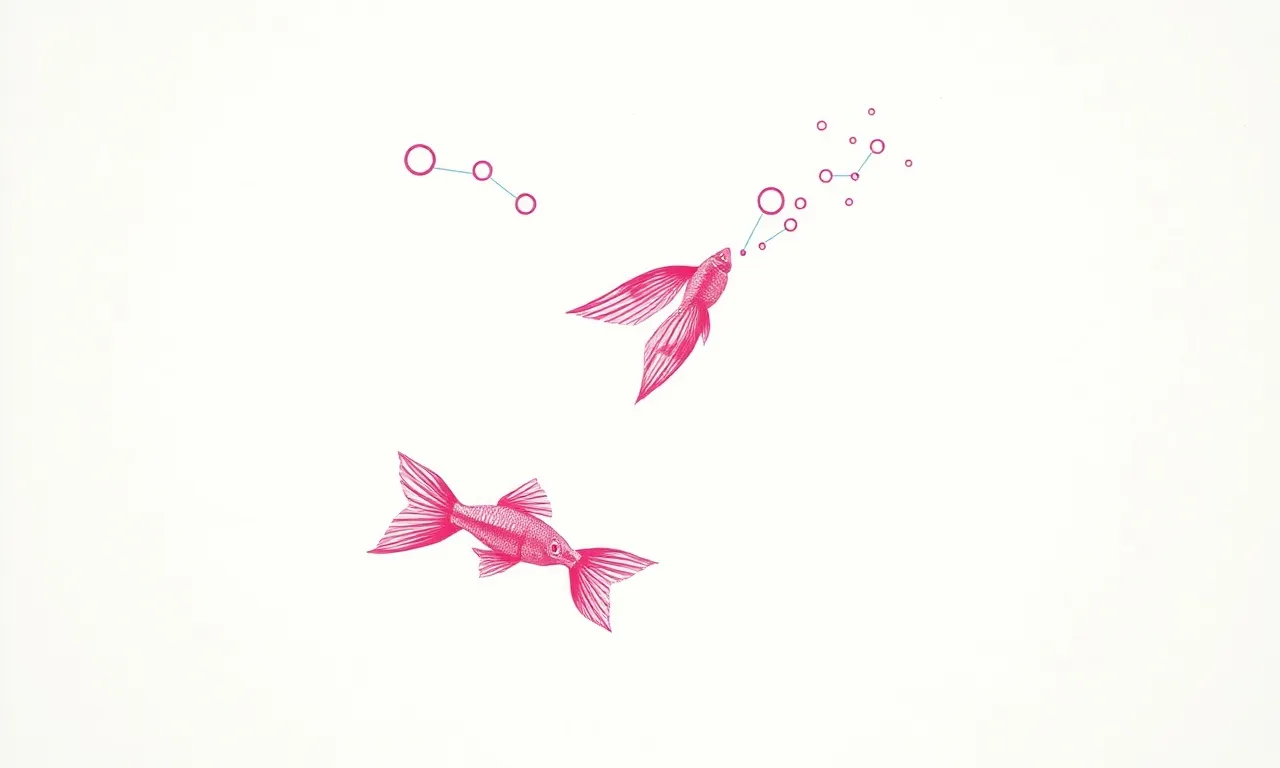
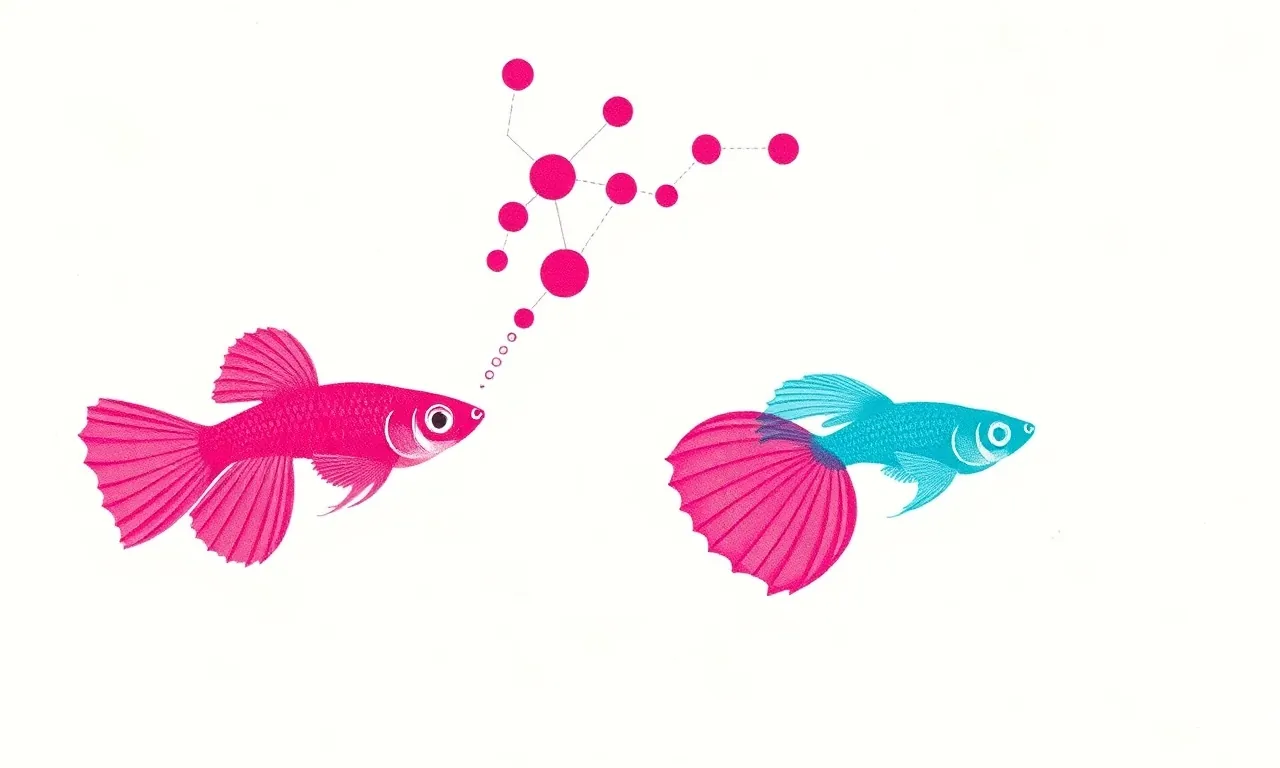
Fishbowl post: v3 results, browser demo section, image update
Claude-Session: https://claude.ai/code/session_019SF6FWRoYjsbrJaRiWnrmr

diff --git a/content/practice/i-grew-a-language-model-in-a-fishbowl/index.md b/content/practice/i-grew-a-language-model-in-a-fishbowl/index.md
@@ -200,7 +200,7 @@ Half-copies! Except "basket" was on the 1,146-noun list, and "vacuum" is the sta
 "vacuuming," which was on the list too. Neither proves it copied a truly novel word.
 Across every version, it never repeated one.
 
-{{< nyer-panel src="bubble-network.webp" caption="A few connections. That's all it has." alt="A two-color pink and teal risograph print of two small fish blowing bubbles that link together with thin lines, like a sparse constellation." >}}
+{{< nyer-panel src="bubble-network.webp" caption="A few connections. That's all it has." alt="A two-color risograph print of two guppies, one pink and one teal. The pink one blows a stream of bubbles that link together with thin lines, like a sparse constellation." >}}
 
 ## A bigger tank, the same fish
 
@@ -282,20 +282,54 @@ comes back as "Bartholomewwook." Long words can still wander off after a few pie
 
 ## Where it is now
 
-The newest fish has two habits I'm working on:
+That fish had two habits left:
 
-- **It stops at real words.** Named Marbleton, it says "I am Marble," eight times out of eight.
-  Wobbleton becomes Wobble. It copies until it reaches something that looks like a word it knows,
-  and calls that a name.
-- **It mixes up you and me.** The memory lessons are full of "What is my name?" answered with
-  "Your name is...", and "What is your name?" is one word away. So sometimes you ask the fish its
-  name and it tells you yours. Once, with total confidence: "You are you, grandparent."
+- **It stopped at real words.** Named Marbleton, it said "I am Marble," eight times out of
+  eight. Wobbleton became Wobble. It copied until it reached something that looked like a word
+  it knew, and called that a name.
+- **It mixed up you and me.** The memory lessons were full of "What is my name?" answered with
+  "Your name is...", and "What is your name?" is one word away. So sometimes you asked the fish
+  its name and it told you yours. Once, with total confidence: "You are you, grandparent."
 
-The fixes are in the oven. Some invented names now start with a real word (Bubbleington,
-Crumbleham, Cloverby), so stopping there is wrong. Haiku agents wrote 640 answers to "what's
-your name?" in each creature's voice; some conversations ask both mine and yours. A dozen
-more agents are writing 6,000 conversations, and the next run trains twice as long. Results
-when the fish is done baking, which is not a sentence I expected to write about a fish.
+The fixes were more of the same medicine. A quarter of the invented names now start with a real
+word (Bubbleington, Crumbleham, Cloverby), so stopping at the word is wrong. Haiku agents wrote
+640 answers to "what's your name?" in each creature's voice, and some conversations ask both
+questions, mine and yours. Another dozen agents wrote 6,000 more conversations, and the fish
+trained twice as long.
+
+Both habits went away. Exact copies of unseen names went from 56% to 92%. Marbleton came back
+whole eight times out of eight:
+
+> Marbleton. I am a careful crab who likes to look for better shells.
+
+None of its 48 answers to "What is your name?" and "Who are you?" started with "You are." Bartholomew, the long
+name that kept wandering off, came back exact in half the memory tests. These are small
+samples, one training run each, so I trust the big moves more than the small ones.
+
+Two new wrinkles showed up, and both are the same lesson again:
+
+- **Tuppence came out "Tuppal" half the time.** One of the syllables the agent used to build
+  invented training names is "tup," so the fish has a strong habit of finishing Tup- with a
+  syllable it knows.
+- **It forgot purple.** To keep the test fair, purple was left out of the 14 colors in the
+  memory lessons. Tell the fish you found a purple shell and it says "A shell you found was
+  pink." Fourteen colors is the 31 nouns all over again: enough to memorize, so it learned
+  "say a color" instead of "repeat the color."
+
+## You can talk to it
+
+The agent shrank the newest fish to 9 MB by storing each weight in a single byte instead of
+four, which changed its error on unseen conversations by about a twentieth of a percent. Then it wrote a small
+JavaScript program that runs the whole model inside a browser tab: no server, no download
+besides the fish itself, about half a second per reply on my laptop.
+
+[It lives here](https://eaglstun.github.io/guppylm/). Pick a creature, rename it, rewrite its
+system prompt, and see what it does. The narwhal and the mantis shrimp are marked as the ones it
+never saw in training. Tell it about a zorblatt. Mine said:
+
+> A zorblatt? Is it a sweet food for a crab? I am always hungry, so I would swim through it fast.
+
+It still doesn't know what a busy is. But now it will ask.
 
 ## Are we not fish
 
